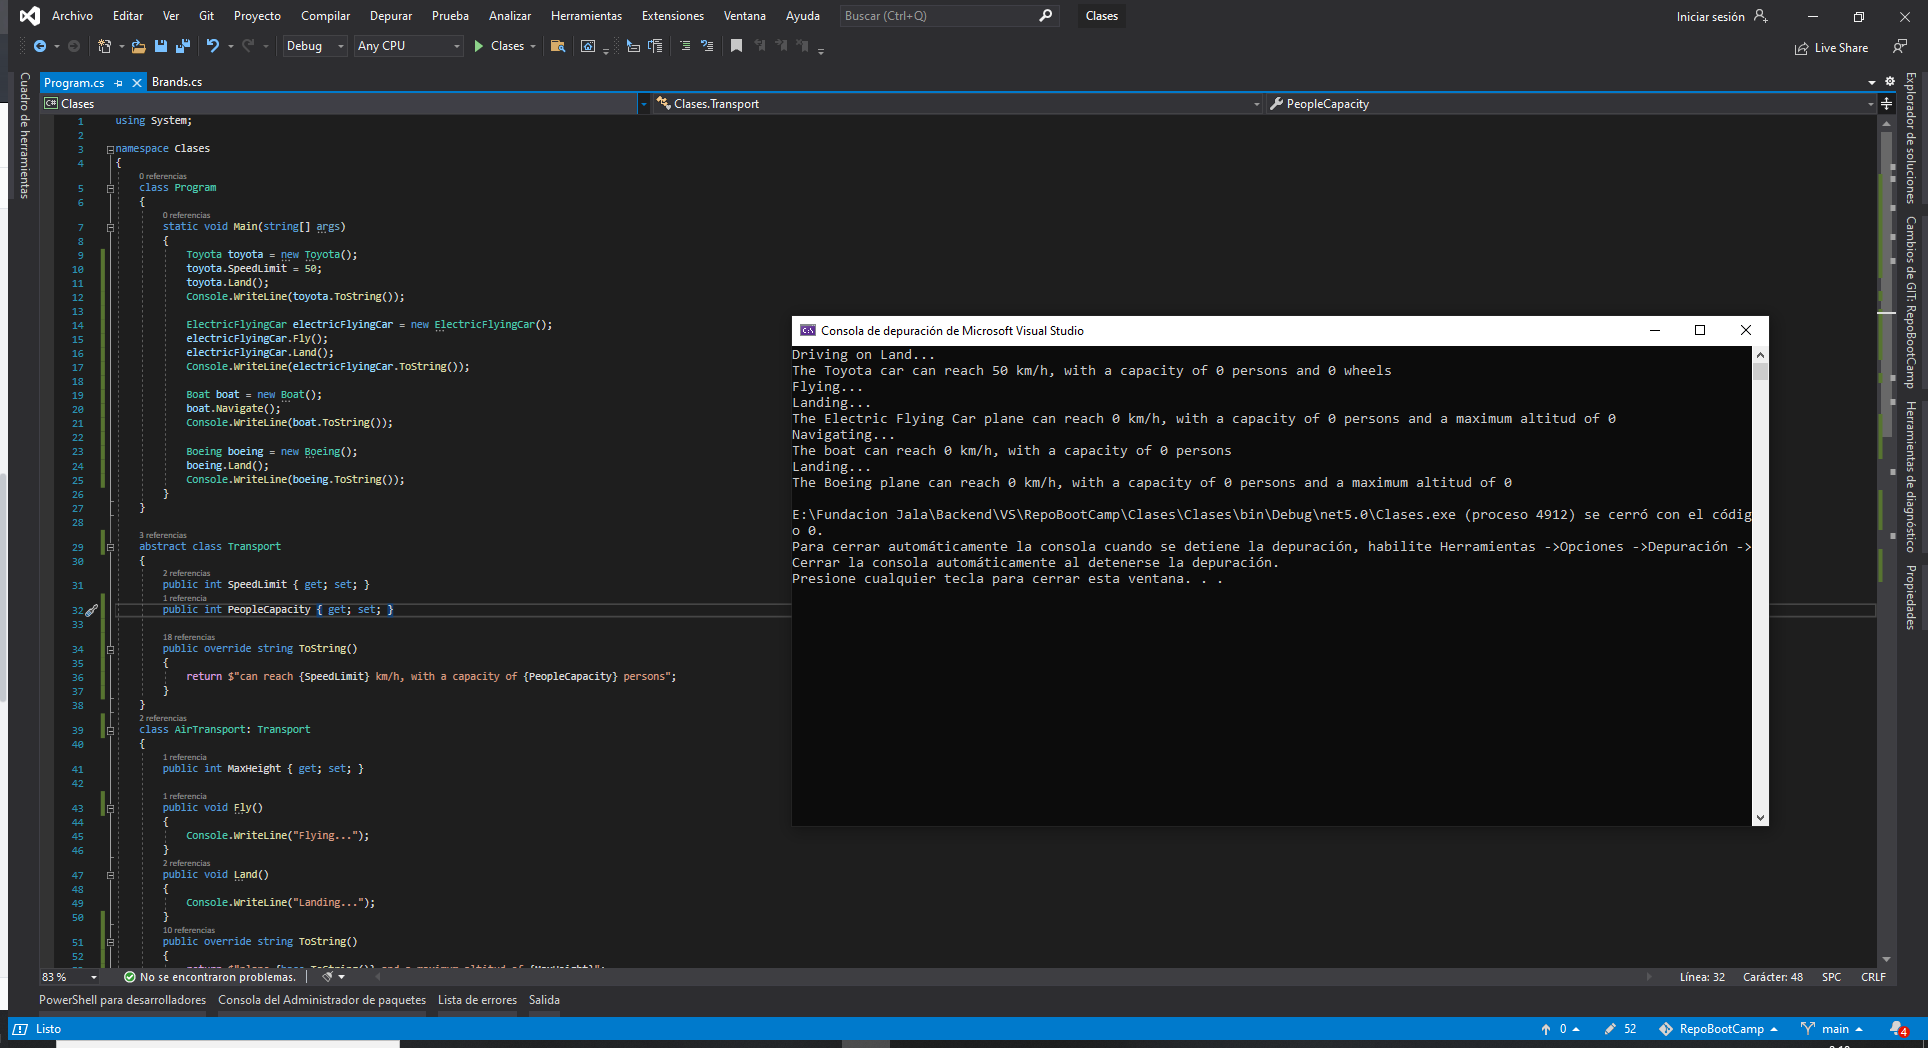
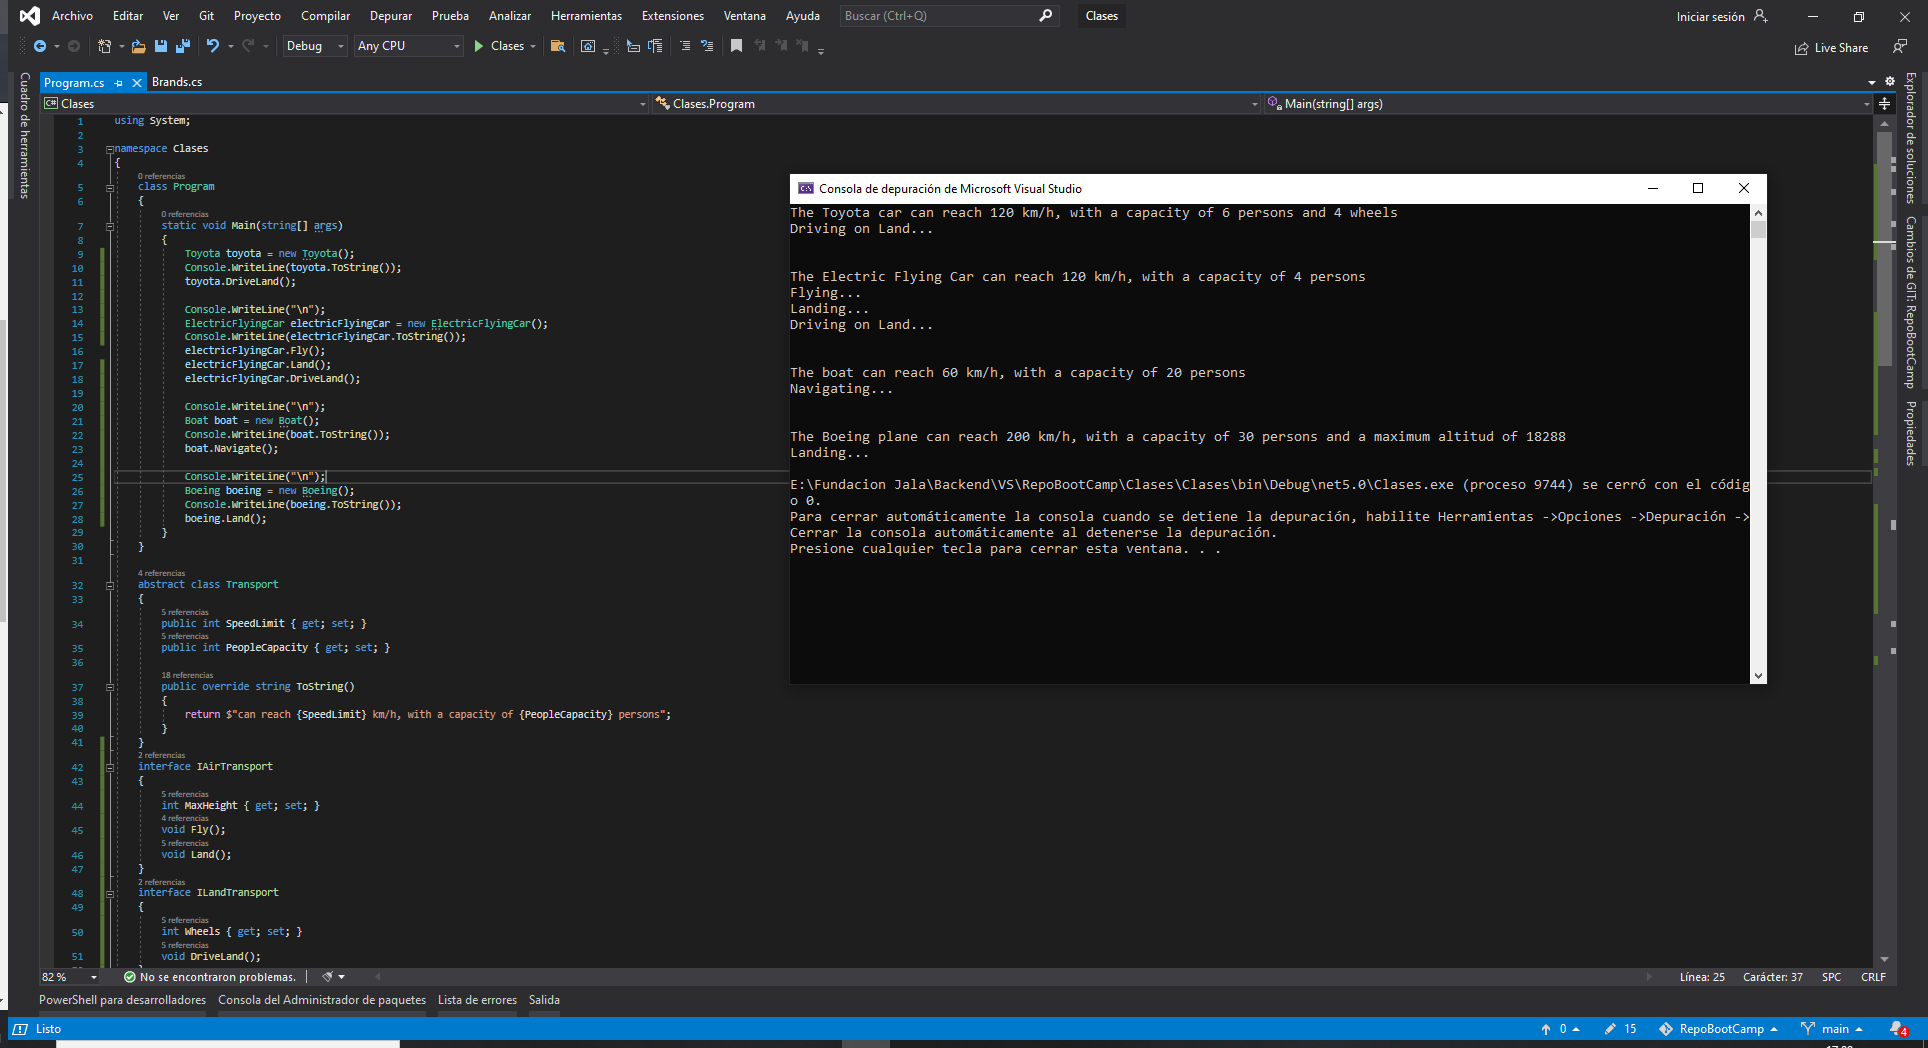
Ejercicio Clases

diff --git a/clases/Clases/Program.cs b/clases/Clases/Program.cs
@@ -7,28 +7,31 @@ namespace Clases
         static void Main(string[] args)
         {
             Toyota toyota = new Toyota();
-            toyota.SpeedLimit = 50;
-            toyota.Land();
             Console.WriteLine(toyota.ToString());
+            toyota.DriveLand();
 
+            Console.WriteLine("\n");
             ElectricFlyingCar electricFlyingCar = new ElectricFlyingCar();
+            Console.WriteLine(electricFlyingCar.ToString());
             electricFlyingCar.Fly();
             electricFlyingCar.Land();
-            Console.WriteLine(electricFlyingCar.ToString());
+            electricFlyingCar.DriveLand();
 
+            Console.WriteLine("\n");
             Boat boat = new Boat();
-            boat.Navigate();
             Console.WriteLine(boat.ToString());
+            boat.Navigate();
 
+            Console.WriteLine("\n");
             Boeing boeing = new Boeing();
-            boeing.Land();
             Console.WriteLine(boeing.ToString());
+            boeing.Land();
         }
     }
 
     abstract class Transport
     {
-        public int SpeedLimit { get; set; }
+        public double SpeedLimit { get; set; }
         public int PeopleCapacity { get; set; }
 
         public override string ToString()
@@ -36,33 +39,68 @@ namespace Clases
             return $"can reach {SpeedLimit} km/h, with a capacity of {PeopleCapacity} persons";
         }
     }
-    class AirTransport: Transport
+    interface IAirTransport
     {
-        public int MaxHeight { get; set; }
+        double MaxHeight { get; set; }
+        void Fly();
+        void Land();
+    }
+    interface ILandTransport
+    {
+        int Wheels { get; set; }
+        void DriveLand();
+    }
+    class AirTransport: Transport, IAirTransport
+    {
+        public double MaxHeight { get; set; }
 
         public void Fly()
         {
             Console.WriteLine("Flying...");
         }
+
         public void Land()
         {
             Console.WriteLine("Landing...");
         }
+
         public override string ToString()
         {
             return $"plane {base.ToString()} and a maximum altitud of {MaxHeight}";
         }
     }
-    class LandTransport : Transport
+    class LandTransport : Transport, ILandTransport
     {
         public int Wheels { get; set; }
-        public void Land()
+        public void DriveLand()
         {
             Console.WriteLine("Driving on Land...");
         }
         public override string ToString()
         {
             return $"car {base.ToString()} and {Wheels} wheels";
+        }
+    }
+    class AirLandTransport : Transport, IAirTransport, ILandTransport
+    {
+        AirTransport airTransport = new AirTransport();
+        LandTransport landTransport = new LandTransport();
+
+        public double MaxHeight { get; set; }
+        public int Wheels { get; set; }
+
+        public void Fly()
+        {
+            airTransport.Fly();
+        }
+        public void Land()
+        {
+            airTransport.Land();
+        }
+
+        public void DriveLand()
+        {
+            landTransport.DriveLand();
         }
     }
     class AquaticTransport : Transport

diff --git a/clases/Clases/Brands.cs b/clases/Clases/Brands.cs
@@ -6,17 +6,29 @@ using System.Threading.Tasks;
 
 namespace Clases
 {
-    class Brands{}
     class Toyota: LandTransport
     {
+        public Toyota()
+        {
+            SpeedLimit = 120;
+            PeopleCapacity = 6;
+            Wheels = 4;
+        }
         public override string ToString()
         {
             return $"The Toyota {base.ToString()}";
         }
     }
 
-    class ElectricFlyingCar: AirTransport
+    class ElectricFlyingCar: AirLandTransport
     {
+        public ElectricFlyingCar()
+        {
+            SpeedLimit = 120;
+            PeopleCapacity = 4;
+            MaxHeight = 18288;
+            Wheels = 4;
+        }
         public override string ToString()
         {
             return $"The Electric Flying Car {base.ToString()}";
@@ -25,6 +37,11 @@ namespace Clases
 
     class Boat: AquaticTransport
     {
+        public Boat()
+        {
+            SpeedLimit = 60;
+            PeopleCapacity = 20;
+        }
         public override string ToString()
         {
             return $"The {base.ToString()}";
@@ -33,6 +50,12 @@ namespace Clases
 
     class Boeing: AirTransport
     {
+        public Boeing()
+        {
+            SpeedLimit = 200;
+            PeopleCapacity = 30;
+            MaxHeight = 18288;
+        }
         public override string ToString()
         {
             return $"The Boeing {base.ToString()}";
